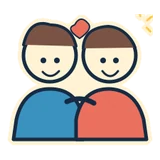
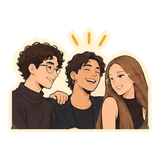
Planche 24 : amis et famille corrigés ; planche 25 : rayon Divers et états vides illustrés (v88)
Claude-Session: https://claude.ai/code/session_01FmbBbPYR3Uqmj4jvUphPos

diff --git a/sw.js b/sw.js
@@ -1,5 +1,5 @@
 // Maison : service worker. L'app s'ouvre sans réseau (lecture) et reçoit des notifications.
-const VERSION = 'maison-v87';
+const VERSION = 'maison-v88';
 const SHELL = ['./', './index.html', './styles.css', './app.js', './themes.js', './fx.js', './people.js', './dechets.js', './recettes.js', './config.js', './manifest.webmanifest', './vendor/supabase-js-2.49.4.js',
   './azami/v41/azami_v41_etirement_anime.svg', './azami/v41/azami_v41_jeu_anime.svg', './azami/v41/azami_v41_toilette_anime.svg', './azami/v41/azami_v41_marche_anime.svg', './azami/v41/azami_v41_miaulement_anime.svg', './azami/v41/azami_v41_repos_anime.svg', './azami/azami_menage_anime.svg', './azami/azami_courses_anime.svg', './azami/azami_argent_anime.svg', './azami/azami_care_anime.svg', './azami/azami_reussite_anime.svg', './azami/reactions/tache_cochee_anime.svg', './azami/reactions/corvee_terminee_anime.svg', './azami/reactions/courses_completees_anime.svg', './azami/reactions/comptes_equilibres_anime.svg', './azami/reactions/mot_envoye_anime.svg', './azami/reactions/objectif_commun_anime.svg', './azami/reactions/surprise_coucou_anime.svg', './azami/reactions/fete_reussites_anime.svg',
   './icons/icon-192.png', './icons/icon-512.png',
@@ -8,7 +8,7 @@ const SHELL = ['./', './index.html', './styles.css', './app.js', './themes.js', 
   './fonts/hanken-grotesk-latin-700-normal.woff2', './fonts/hanken-grotesk-latin-800-normal.woff2',
   './fonts/shippori-mincho-latin-400-normal.woff2', './fonts/shippori-mincho-latin-600-normal.woff2'];
 
-const THEME_ICONS = ['abonnement', 'abricot', 'adaptateur', 'admin', 'adoucissant', 'aeroport', 'agrumes', 'ail', 'air', 'alarme', 'alu', 'amandes', 'amis', 'ampoule_e27', 'ampoule_gu10', 'ananas', 'animalerie', 'anniversaire', 'antipoils', 'antipuces', 'antivol', 'apero', 'appel', 'appel_famille', 'apres_shampooing', 'arbreachat', 'argent', 'art', 'asiatique', 'asperges', 'aspirateur', 'aubergine', 'avion', 'avocat', 'avoine', 'azami_betise', 'azami_carton', 'azami_clavier', 'azami_reclame', 'azami_soleil', 'azami_valise', 'bagels', 'baguette', 'bain', 'balle_grelot', 'banane', 'banque', 'bar', 'basilic', 'batterie_velo', 'beaute', 'bebe', 'beurre', 'beurre_cacahuete', 'bicarbonate', 'biere', 'bijoux', 'billet_avion', 'billet_train', 'biscuits', 'boeuf_hache', 'boites', 'bonbons', 'bougie', 'bouilloire', 'bouillon', 'bouture', 'bretzels', 'bricolage', 'brocante', 'brocoli', 'brosse_dents', 'brossechat', 'brunch', 'budget', 'bulles', 'burger', 'bus', 'cabillaud', 'cable_usbc', 'cables', 'cacahuetes', 'cadeau', 'cadeau_emballer', 'cadre', 'cafe', 'cafe_grains', 'cafe_sortie', 'caissetransport', 'cajou', 'cannelle', 'capsules', 'care_besoin', 'care_envie', 'care_merci', 'care_poids', 'care_tendresse', 'carotte', 'carte', 'carte_id', 'carte_postale', 'carte_sd', 'carte_voeux', 'cash', 'casque', 'casserole', 'cataire', 'celeri', 'cereales', 'cerises', 'champagne', 'champignon', 'charcuterie', 'chargeur', 'chat', 'chauffage', 'chaussettes', 'chaussures', 'cheesecake', 'chez_amis', 'chien', 'chips', 'chocolat', 'chocolat_cuisine', 'chou_chinois', 'chou_fleur', 'ciboulette', 'cinema', 'citron', 'citron_vert', 'clavier', 'cle_usb', 'clementine', 'cles', 'club', 'coiffeur', 'colis', 'colis_envoi', 'colis_retrait', 'colle', 'collierchat', 'commune', 'concert', 'concombre', 'congelateur', 'console', 'cookies', 'coque', 'coriandre', 'coton_tiges', 'cotons', 'coupe_griffes', 'couple', 'courge', 'courgette', 'courrier', 'courses', 'couscous', 'coussin', 'couteaux', 'crackers', 'creme', 'creme_cafe', 'creme_dessert', 'creme_fraiche', 'creme_mains', 'creme_solaire', 'crevettes', 'crochet', 'croissant', 'croquettes', 'cuiseur_riz', 'cuisine', 'cumin', 'curcuma', 'curry', 'danse', 'dashi', 'date', 'dechets', 'deco', 'demaquillant', 'demenagement', 'demi_tarif', 'dentifrice', 'dents', 'deodorant', 'detachant', 'detartrage', 'detartrant', 'detecteur', 'disque_dur', 'docs_voyage', 'donner', 'douche', 'eau', 'eau_gazeuse', 'ebill', 'echalote', 'ecologie', 'ecouteurs', 'ecran', 'edamame', 'electricite', 'enceinte', 'encre', 'engrais', 'epargne', 'epices', 'epinards', 'eponges', 'escabeau', 'escalade', 'essuie_tout', 'etagere', 'etendre', 'etudes', 'facture', 'facture_qr', 'famille', 'farine', 'fecule', 'fenetres', 'fenouil', 'feta', 'fete', 'feuilles_riz', 'fiduciaire', 'figue', 'fil_dentaire', 'film', 'filtre_fontaine', 'fleurs', 'fondue', 'fontaine', 'foot', 'formulaire', 'fraises', 'framboises', 'friandises', 'frigo', 'friperie', 'frites', 'fromage', 'fromage_rape', 'fruits', 'fruits_surgeles', 'fruitsdemer', 'furikake', 'futon', 'galettes_riz', 'gamelle', 'gant_toilettage', 'gants', 'garantie', 'garde_voyage', 'gardechat', 'gateau', 'gel_douche', 'gerance', 'gin', 'gingembre', 'glace', 'glacons', 'globe', 'gnocchis', 'gochujang', 'gorge', 'graines', 'grandmenage', 'granola', 'grenade', 'griffoir', 'griffoir_carton', 'grille_pain', 'gruyere', 'gyozas', 'haricots_rouges', 'haricots_verts', 'hdmi', 'herbeachat', 'herbes', 'hotel', 'hotte', 'housse', 'huile', 'huile_olive', 'huile_sesame', 'huile_tournesol', 'hygiene', 'ibuprofene', 'identite', 'impots', 'imprimer', 'internet_sites', 'intime', 'invites', 'jambon', 'jardin', 'javel', 'jeux', 'jeuxsociete', 'jouetschat', 'juridique', 'jus', 'jus_orange', 'jus_pomme', 'kaki', 'ketchup', 'kimchi', 'kiwi', 'kombucha', 'lac', 'lait', 'lait_avoine', 'lait_coco', 'lait_soja', 'laitier', 'lamal', 'lampe', 'lampe_poche', 'lampe_washi', 'lardons', 'lasagnes', 'laser', 'lavabo', 'lavevaisselle', 'legumes', 'legumes_surgeles', 'legumineuses', 'lentilles', 'lentilles_contact', 'lessive', 'lessive_lancer', 'lessive_liquide', 'levure', 'librairie', 'linge_mouille', 'liquide_vaisselle', 'liste', 'lit', 'litiere', 'livraison', 'livres', 'lunettes', 'macarons', 'machinecafe', 'mais', 'mais_boite', 'malade', 'manette', 'mangue', 'mariage', 'marteau', 'massage', 'matcha', 'mayo_jp', 'mayonnaise', 'medecin', 'melon', 'menage', 'menthe', 'mesures', 'meteo', 'metro', 'meubles', 'mexicain', 'micro_ondes', 'microfibre', 'miel', 'mirin', 'miso', 'mix', 'mixeur', 'mobility', 'mochi', 'montagne', 'mouchoirs', 'mousse_raser', 'moutarde', 'mozzarella', 'muesli', 'multiprise', 'musee', 'musique', 'myrtilles', 'niveau', 'noel', 'noisettes', 'noix', 'nori', 'nouilles', 'nouilles_riz', 'nouvel_an', 'oeufs', 'oignon', 'okonomiyaki', 'ophtalmo', 'orange', 'ordinateur', 'ordonnance', 'oreiller', 'orp', 'pain', 'pain_chocolat', 'pain_complet', 'pain_mie', 'pak_choi', 'pamplemousse', 'panier_chat', 'panier_linge', 'panko', 'pansements', 'papier_cuisson', 'papiertoilette', 'paprika', 'paracetamol', 'parmesan', 'passeport', 'pasteque', 'pastilles_lv', 'patate', 'patate_douce', 'pate_brisee', 'pate_charcuterie', 'pate_crepes', 'pate_curry', 'pate_feuilletee', 'pate_filo', 'pate_gyoza', 'pate_pain', 'pate_pizza', 'pate_sablee', 'pate_tartiner', 'patee', 'pateres', 'pates', 'pates_courtes', 'patisserie', 'peche', 'peinture', 'pelle_litiere', 'perceuse', 'permis', 'persil', 'pesee', 'petitdej', 'petits_pois', 'pharmacie', 'photo', 'physio', 'pile_bouton', 'piles', 'piles_aa', 'piment', 'piquenique', 'piscine', 'pizza', 'pizza_surgelee', 'plaid', 'planche', 'plante_malade', 'plantes', 'plaque_teppan', 'plier', 'plomberie', 'plumeau', 'pneu', 'poele', 'poesie', 'poire', 'poireau', 'pois_chiches', 'pois_surgeles', 'poisson', 'poivre', 'poivron', 'polenta', 'pomme', 'popcorn', 'porc', 'pot', 'poubelle', 'poulet', 'poussiere', 'powerbank', 'premierssoins', 'prise_sang', 'prise_usba', 'prise_usbc', 'psy', 'puree', 'quinoa', 'raclette', 'radis', 'raisin', 'rallonge', 'ramen', 'rangement', 'rappel', 'rasage', 'rasoir', 'raviolis', 'rayon_asie', 'rayon_azami', 'rayon_maison', 'rayon_pharma', 'rayon_super', 'rayon_tech', 'rc_menage', 'rdv', 'recommande', 'recu', 'recyclage', 'reflexion', 'regles', 'remboursement', 'rempoter', 'reparation', 'repas', 'repassage', 'restaurant', 'revision_velo', 'rideaux', 'rincage', 'riz', 'riz_sushi', 'romarin', 'roquette', 'rosti', 'routeur', 'sable_litiere', 'sac', 'sac_voyage', 'sachets', 'sacs_compost', 'sacs_congel', 'sacs_litiere', 'sacs_poubelle', 'sacs_taxes', 'saint_valentin', 'sake', 'salade', 'salaire', 'salledebain', 'salon_the', 'sandwich', 'sante', 'sardines', 'sauce_okonomi', 'sauce_soja', 'sauce_tomate', 'saucisses', 'saumon', 'savon', 'scanner', 'scotch', 'seche_linge', 'securite', 'seitan', 'sel', 'sel_lv', 'serafe', 'sere', 'serpilliere', 'serviettes', 'sesame', 'shampooing', 'shichimi', 'shiitake', 'signature', 'silicone', 'sirop', 'skyr', 'snacks', 'soba', 'sols', 'sommeil', 'soupe', 'souris', 'souris_pc', 'souvenirs', 'spa', 'spiritueux', 'sport', 'spray_multi', 'spray_nasal', 'spray_vitres', 'sriracha', 'steak', 'steak_vege', 'streaming', 'sucre', 'sucre_glace', 'surgeles', 'sushi', 'synthe', 'tapis', 'tapis_litiere', 'tarte', 'tatami', 'taxi', 'telecom', 'telecommande', 'telephone', 'tempeh', 'terreau', 'textile', 'the', 'the_froid', 'the_vert', 'theatre', 'thermometre', 'thon', 'thym', 'tisane', 'tofu', 'toilettes', 'tomate', 'tomates_boite', 'tomates_cerises', 'tortillas', 'tournevis', 'train', 'train_nuit', 'travail', 'tresse', 'trottinette', 'trousse', 'tunnel', 'tupperware', 'tv', 'twint', 'udon', 'urgent', 'vaccin_humain', 'vaccinchat', 'vaisselle', 'valise', 'vapeur', 'vaporisateur', 'vege', 'velo', 'velo_electrique', 'vermicelles', 'vermifuge', 'vernissage', 'verre', 'verre_trempe', 'vetements', 'veto', 'viande', 'viennoiserie', 'vin', 'vin_blanc', 'vin_rouge', 'vinaigre', 'vinaigre_menager', 'vinaigre_riz', 'virement', 'vis', 'visio', 'vitamines', 'voisins', 'volaille', 'vote', 'voyage', 'wakame', 'yaourt', 'yaourt_fruits', 'yoga', 'yuzu'].map(id => `./icons/themes/${id}.webp`);
+const THEME_ICONS = ['abonnement', 'abricot', 'adaptateur', 'admin', 'adoucissant', 'aeroport', 'agrumes', 'ail', 'air', 'alarme', 'alu', 'amandes', 'amis', 'ampoule_e27', 'ampoule_gu10', 'ananas', 'animalerie', 'anniversaire', 'antipoils', 'antipuces', 'antivol', 'apero', 'appel', 'appel_famille', 'apres_shampooing', 'arbreachat', 'argent', 'art', 'asiatique', 'asperges', 'aspirateur', 'aubergine', 'avion', 'avocat', 'avoine', 'azami_betise', 'azami_carton', 'azami_clavier', 'azami_reclame', 'azami_soleil', 'azami_valise', 'bagels', 'baguette', 'bain', 'balle_grelot', 'banane', 'banque', 'bar', 'basilic', 'batterie_velo', 'beaute', 'bebe', 'beurre', 'beurre_cacahuete', 'bicarbonate', 'biere', 'bijoux', 'billet_avion', 'billet_train', 'biscuits', 'boeuf_hache', 'boites', 'bonbons', 'bougie', 'bouilloire', 'bouillon', 'bouture', 'bretzels', 'bricolage', 'brocante', 'brocoli', 'brosse_dents', 'brossechat', 'brunch', 'budget', 'bulles', 'burger', 'bus', 'cabillaud', 'cable_usbc', 'cables', 'cacahuetes', 'cadeau', 'cadeau_emballer', 'cadre', 'cafe', 'cafe_grains', 'cafe_sortie', 'caissetransport', 'cajou', 'cannelle', 'capsules', 'care_besoin', 'care_envie', 'care_merci', 'care_poids', 'care_tendresse', 'carotte', 'carte', 'carte_id', 'carte_postale', 'carte_sd', 'carte_voeux', 'cash', 'casque', 'casserole', 'cataire', 'celeri', 'cereales', 'cerises', 'champagne', 'champignon', 'charcuterie', 'chargeur', 'chat', 'chauffage', 'chaussettes', 'chaussures', 'cheesecake', 'chez_amis', 'chien', 'chips', 'chocolat', 'chocolat_cuisine', 'chou_chinois', 'chou_fleur', 'ciboulette', 'cinema', 'citron', 'citron_vert', 'clavier', 'cle_usb', 'clementine', 'cles', 'club', 'coiffeur', 'colis', 'colis_envoi', 'colis_retrait', 'colle', 'collierchat', 'commune', 'concert', 'concombre', 'congelateur', 'console', 'cookies', 'coque', 'coriandre', 'coton_tiges', 'cotons', 'coupe_griffes', 'couple', 'courge', 'courgette', 'courrier', 'courses', 'couscous', 'coussin', 'couteaux', 'crackers', 'creme', 'creme_cafe', 'creme_dessert', 'creme_fraiche', 'creme_mains', 'creme_solaire', 'crevettes', 'crochet', 'croissant', 'croquettes', 'cuiseur_riz', 'cuisine', 'cumin', 'curcuma', 'curry', 'danse', 'dashi', 'date', 'dechets', 'deco', 'demaquillant', 'demenagement', 'demi_tarif', 'dentifrice', 'dents', 'deodorant', 'detachant', 'detartrage', 'detartrant', 'detecteur', 'disque_dur', 'docs_voyage', 'donner', 'douche', 'eau', 'eau_gazeuse', 'ebill', 'echalote', 'ecologie', 'ecouteurs', 'ecran', 'edamame', 'electricite', 'enceinte', 'encre', 'engrais', 'epargne', 'epices', 'epinards', 'eponges', 'escabeau', 'escalade', 'essuie_tout', 'etagere', 'etendre', 'etudes', 'facture', 'facture_qr', 'famille', 'farine', 'fecule', 'fenetres', 'fenouil', 'feta', 'fete', 'feuilles_riz', 'fiduciaire', 'figue', 'fil_dentaire', 'film', 'filtre_fontaine', 'fleurs', 'fondue', 'fontaine', 'foot', 'formulaire', 'fraises', 'framboises', 'friandises', 'frigo', 'friperie', 'frites', 'fromage', 'fromage_rape', 'fruits', 'fruits_surgeles', 'fruitsdemer', 'furikake', 'futon', 'galettes_riz', 'gamelle', 'gant_toilettage', 'gants', 'garantie', 'garde_voyage', 'gardechat', 'gateau', 'gel_douche', 'gerance', 'gin', 'gingembre', 'glace', 'glacons', 'globe', 'gnocchis', 'gochujang', 'gorge', 'graines', 'grandmenage', 'granola', 'grenade', 'griffoir', 'griffoir_carton', 'grille_pain', 'gruyere', 'gyozas', 'haricots_rouges', 'haricots_verts', 'hdmi', 'herbeachat', 'herbes', 'hotel', 'hotte', 'housse', 'huile', 'huile_olive', 'huile_sesame', 'huile_tournesol', 'hygiene', 'ibuprofene', 'identite', 'impots', 'imprimer', 'internet_sites', 'intime', 'invites', 'jambon', 'jardin', 'javel', 'jeux', 'jeuxsociete', 'jouetschat', 'juridique', 'jus', 'jus_orange', 'jus_pomme', 'kaki', 'ketchup', 'kimchi', 'kiwi', 'kombucha', 'lac', 'lait', 'lait_avoine', 'lait_coco', 'lait_soja', 'laitier', 'lamal', 'lampe', 'lampe_poche', 'lampe_washi', 'lardons', 'lasagnes', 'laser', 'lavabo', 'lavevaisselle', 'legumes', 'legumes_surgeles', 'legumineuses', 'lentilles', 'lentilles_contact', 'lessive', 'lessive_lancer', 'lessive_liquide', 'levure', 'librairie', 'linge_mouille', 'liquide_vaisselle', 'liste', 'lit', 'litiere', 'livraison', 'livres', 'lunettes', 'macarons', 'machinecafe', 'mais', 'mais_boite', 'malade', 'manette', 'mangue', 'mariage', 'marteau', 'massage', 'matcha', 'mayo_jp', 'mayonnaise', 'medecin', 'melon', 'menage', 'menthe', 'mesures', 'meteo', 'metro', 'meubles', 'mexicain', 'micro_ondes', 'microfibre', 'miel', 'mirin', 'miso', 'mix', 'mixeur', 'mobility', 'mochi', 'montagne', 'mouchoirs', 'mousse_raser', 'moutarde', 'mozzarella', 'muesli', 'multiprise', 'musee', 'musique', 'myrtilles', 'niveau', 'noel', 'noisettes', 'noix', 'nori', 'nouilles', 'nouilles_riz', 'nouvel_an', 'oeufs', 'oignon', 'okonomiyaki', 'ophtalmo', 'orange', 'ordinateur', 'ordonnance', 'oreiller', 'orp', 'pain', 'pain_chocolat', 'pain_complet', 'pain_mie', 'pak_choi', 'pamplemousse', 'panier_chat', 'panier_linge', 'panko', 'pansements', 'papier_cuisson', 'papiertoilette', 'paprika', 'paracetamol', 'parmesan', 'passeport', 'pasteque', 'pastilles_lv', 'patate', 'patate_douce', 'pate_brisee', 'pate_charcuterie', 'pate_crepes', 'pate_curry', 'pate_feuilletee', 'pate_filo', 'pate_gyoza', 'pate_pain', 'pate_pizza', 'pate_sablee', 'pate_tartiner', 'patee', 'pateres', 'pates', 'pates_courtes', 'patisserie', 'peche', 'peinture', 'pelle_litiere', 'perceuse', 'permis', 'persil', 'pesee', 'petitdej', 'petits_pois', 'pharmacie', 'photo', 'physio', 'pile_bouton', 'piles', 'piles_aa', 'piment', 'piquenique', 'piscine', 'pizza', 'pizza_surgelee', 'plaid', 'planche', 'plante_malade', 'plantes', 'plaque_teppan', 'plier', 'plomberie', 'plumeau', 'pneu', 'poele', 'poesie', 'poire', 'poireau', 'pois_chiches', 'pois_surgeles', 'poisson', 'poivre', 'poivron', 'polenta', 'pomme', 'popcorn', 'porc', 'pot', 'poubelle', 'poulet', 'poussiere', 'powerbank', 'premierssoins', 'prise_sang', 'prise_usba', 'prise_usbc', 'psy', 'puree', 'quinoa', 'raclette', 'radis', 'raisin', 'rallonge', 'ramen', 'rangement', 'rappel', 'rasage', 'rasoir', 'raviolis', 'rayon_asie', 'rayon_azami', 'rayon_divers', 'rayon_maison', 'rayon_pharma', 'rayon_super', 'rayon_tech', 'rc_menage', 'rdv', 'recommande', 'recu', 'recyclage', 'reflexion', 'regles', 'remboursement', 'rempoter', 'reparation', 'repas', 'repassage', 'restaurant', 'revision_velo', 'rideaux', 'rincage', 'riz', 'riz_sushi', 'romarin', 'roquette', 'rosti', 'routeur', 'sable_litiere', 'sac', 'sac_voyage', 'sachets', 'sacs_compost', 'sacs_congel', 'sacs_litiere', 'sacs_poubelle', 'sacs_taxes', 'saint_valentin', 'sake', 'salade', 'salaire', 'salledebain', 'salon_the', 'sandwich', 'sante', 'sardines', 'sauce_okonomi', 'sauce_soja', 'sauce_tomate', 'saucisses', 'saumon', 'savon', 'scanner', 'scotch', 'seche_linge', 'securite', 'seitan', 'sel', 'sel_lv', 'serafe', 'sere', 'serpilliere', 'serviettes', 'sesame', 'shampooing', 'shichimi', 'shiitake', 'signature', 'silicone', 'sirop', 'skyr', 'snacks', 'soba', 'sols', 'sommeil', 'soupe', 'souris', 'souris_pc', 'souvenirs', 'spa', 'spiritueux', 'sport', 'spray_multi', 'spray_nasal', 'spray_vitres', 'sriracha', 'steak', 'steak_vege', 'streaming', 'sucre', 'sucre_glace', 'surgeles', 'sushi', 'synthe', 'tapis', 'tapis_litiere', 'tarte', 'tatami', 'taxi', 'telecom', 'telecommande', 'telephone', 'tempeh', 'terreau', 'textile', 'the', 'the_froid', 'the_vert', 'theatre', 'thermometre', 'thon', 'thym', 'tisane', 'tofu', 'toilettes', 'tomate', 'tomates_boite', 'tomates_cerises', 'tortillas', 'tournevis', 'train', 'train_nuit', 'travail', 'tresse', 'trottinette', 'trousse', 'tunnel', 'tupperware', 'tv', 'twint', 'udon', 'urgent', 'vaccin_humain', 'vaccinchat', 'vaisselle', 'valise', 'vapeur', 'vaporisateur', 'vege', 'velo', 'velo_electrique', 'vermicelles', 'vermifuge', 'vernissage', 'verre', 'verre_trempe', 'vetements', 'veto', 'viande', 'vide_agenda', 'vide_care', 'vide_courses', 'vide_taches', 'viennoiserie', 'vin', 'vin_blanc', 'vin_rouge', 'vinaigre', 'vinaigre_menager', 'vinaigre_riz', 'virement', 'vis', 'visio', 'vitamines', 'voisins', 'volaille', 'vote', 'voyage', 'wakame', 'yaourt', 'yaourt_fruits', 'yoga', 'yuzu'].map(id => `./icons/themes/${id}.webp`);
 
 const PEOPLE_ICONS = ['./icons/people/yatoni/portrait.webp', './icons/people/yatoni/ordinateur.webp', './icons/people/yatoni/musique.webp', './icons/people/yatoni/nouilles.webp', './icons/people/yatoni/courses.webp', './icons/people/yatoni/cuisine.webp', './icons/people/yatoni/nettoyer.webp', './icons/people/yatoni/lessive.webp', './icons/people/yatoni/aspirateur.webp', './icons/people/yatoni/colis.webp', './icons/people/yatoni/lire.webp', './icons/people/yatoni/jeux.webp', './icons/people/yatoni/tablette.webp', './icons/people/yatoni/muscu.webp', './icons/people/yatoni/velo.webp', './icons/people/yatoni/rando.webp', './icons/people/yatoni/verre.webp', './icons/people/yatoni/bisou.webp', './icons/people/yatoni/bain.webp', './icons/people/yatoni/dormir.webp', './icons/people/mariana/portrait.webp', './icons/people/mariana/ordinateur.webp', './icons/people/mariana/lire.webp', './icons/people/mariana/cafe.webp', './icons/people/mariana/courses.webp', './icons/people/mariana/cuisine.webp', './icons/people/mariana/nettoyer.webp', './icons/people/mariana/linge.webp', './icons/people/mariana/lessive.webp', './icons/people/mariana/plantes.webp', './icons/people/mariana/meditation.webp', './icons/people/mariana/maquillage.webp', './icons/people/mariana/note.webp', './icons/people/mariana/travail.webp', './icons/people/mariana/etirements.webp', './icons/people/mariana/rando.webp', './icons/people/mariana/verre.webp', './icons/people/mariana/bisou.webp', './icons/people/mariana/bain.webp', './icons/people/mariana/dormir.webp'];
 

diff --git a/app.js b/app.js
@@ -985,7 +985,7 @@ function viewMaison() {
       <button data-action="meows" data-on="1" aria-pressed="${MEOWS}">Oui</button>
       <button data-action="meows" data-on="0" aria-pressed="${!MEOWS}">Non</button></div></div>
     ${DEMO ? '' : `<div class="theme-row"><span>Rappels en retard</span>${notifOn() ? '<span class="hint">Notifications activées</span>' : '<button class="btn ghost small" data-action="notif">Activer les notifications</button>'}</div>`}
-    <div class="foot">${DEMO ? '<button class="link" data-action="demo-reset">Remettre la démo à zéro</button>' : '<button class="link" data-action="logout">Se déconnecter</button>'}<span class="version">v87</span></div>`;
+    <div class="foot">${DEMO ? '<button class="link" data-action="demo-reset">Remettre la démo à zéro</button>' : '<button class="link" data-action="logout">Se déconnecter</button>'}<span class="version">v88</span></div>`;
 }
 
 // Tâches datées et prochaine échéance de chaque corvée, à placer dans l'agenda de l'app.
@@ -1081,7 +1081,7 @@ function viewAgenda() {
       <div class="form-actions"><button type="button" class="btn ghost small" data-action="ev-form" data-show="0">Annuler</button><button class="btn" type="submit">Ajouter au calendrier</button></div>
     </form>` : `<button class="btn" data-action="ev-form" data-show="1">+ Ajouter un événement</button>`}
     <button class="link house-toggle" data-action="agenda-house" aria-pressed="${S.agendaHouse !== false}">${S.agendaHouse !== false ? 'Masquer' : 'Afficher'} le ménage et les choses à faire</button>
-    ${blocks || '<p class="empty">Rien de prévu dans les trois prochains mois.</p>'}
+    ${blocks || emptyArt('vide_agenda', 'Rien de prévu dans les trois prochains mois.')}
     <details class="fold" data-fold="ag-settings"><summary>Connexion</summary><p class="hint">Relié à ${esc(A.calendar)} via ${esc(A.apple_id || 'iCloud')}${A.set_by ? `, par ${esc(nameOf(A.set_by))}` : ''}. L'app ne lit que ce calendrier.</p><button class="link" data-action="agenda-forget">Déconnecter le calendrier</button></details>`;
 }
 function editEvent(e) {
@@ -1137,7 +1137,7 @@ function viewTasks() {
     </li>`;
   };
   return `<h2 class="list-head">À faire${open.length ? ` <span class="count">${open.length}</span>` : ''}</h2>
-    ${open.length ? `<ul class="list">${open.map(item).join('')}</ul>` : '<p class="empty">Plus rien à faire. Profitez-en.</p>'}
+    ${open.length ? `<ul class="list">${open.map(item).join('')}</ul>` : emptyArt('vide_taches', 'Plus rien à faire. Profitez-en.')}
     ${fresh.length ? `<h2 class="list-head done-head">Fait aujourd'hui <span class="count">${fresh.length}</span></h2><ul class="list">${fresh.map(item).join('')}</ul>` : ''}
     <form class="form add" data-form="task">
       <label class="sr" for="task-title">Nouvelle chose à faire</label>
@@ -1403,7 +1403,9 @@ const SHOPS = [
   ['tech', 'Électronique', 'Digitec, Interdiscount, Fust'],
   ['autre', 'Divers', 'cadeaux, commandes, le reste'],
 ];
-const SHOP_ICON = { super: 'rayon_super', asie: 'rayon_asie', maison: 'rayon_maison', pharma: 'rayon_pharma', azami: 'rayon_azami', tech: 'rayon_tech', autre: 'cadeau' };
+// Illustration au-dessus d'un état vide.
+const emptyArt = (id, txt) => `<div class="empty-art"><img src="icons/themes/${id}.webp" alt="" width="120" height="120" decoding="async"><p class="empty">${txt}</p></div>`;
+const SHOP_ICON = { super: 'rayon_super', asie: 'rayon_asie', maison: 'rayon_maison', pharma: 'rayon_pharma', azami: 'rayon_azami', tech: 'rayon_tech', autre: 'rayon_divers' };
 const shopIc = (k, cls = 'shop-ic') => SHOP_ICON[k] ? `<img class="${cls}" src="icons/themes/${SHOP_ICON[k]}.webp" alt="" width="40" height="40" decoding="async">` : '';
 const SHOP_OF_THEME = {
   asiatique: 'asie', nouilles: 'asie', sushi: 'asie', curry: 'asie', riz_sushi: 'asie,super', panko: 'asie,super', tofu: 'asie,super', tempeh: 'asie', sauce_soja: 'asie,super', miso: 'asie', mirin: 'asie', pate_gyoza: 'asie', feuilles_riz: 'asie', ramen: 'asie,super', udon: 'asie', soba: 'asie', nouilles_riz: 'asie,super', vermicelles: 'asie',
@@ -1446,7 +1448,7 @@ function viewCourses() {
     <div class="where"><span class="chip-label">Je suis à…</span><div class="chips">${SHOPS.map(([k, l]) => `<button type="button" class="shop-chip" data-action="shop-mode" data-shop="${k}" aria-pressed="${mode === k}">${shopIc(k, 'chip-ic')}${esc(l)}</button>`).join('')}</div></div>
     <div class="shop">${mode
       ? (todo.length ? `<h2 class="list-head shop-head">${shopIc(mode)}${esc(modeLabel)} <span class="hint-inline">${esc(SHOPS.find(x => x[0] === mode)[2])}</span></h2><ul class="list">${todo.map(item).join('')}</ul>` : `<p class="empty">Rien à acheter ici${todoAll.length ? ', le reste de la liste est ailleurs' : ''}.</p>`)
-      : (todo.length ? SHOPS.map(([k, l, ex]) => { const list = todo.filter(s => shopsOf(s).includes(k)); return list.length ? `<h2 class="list-head shop-head">${shopIc(k)}${esc(l)}${ex ? ` <span class="hint-inline">${esc(ex)}</span>` : ''}</h2><ul class="list">${list.map(item).join('')}</ul>` : ''; }).join('') : '<p class="empty">Rien à acheter. Ajoute un article quand il manque quelque chose.</p>')}
+      : (todo.length ? SHOPS.map(([k, l, ex]) => { const list = todo.filter(s => shopsOf(s).includes(k)); return list.length ? `<h2 class="list-head shop-head">${shopIc(k)}${esc(l)}${ex ? ` <span class="hint-inline">${esc(ex)}</span>` : ''}</h2><ul class="list">${list.map(item).join('')}</ul>` : ''; }).join('') : emptyArt('vide_courses', 'Rien à acheter. Ajoute un article quand il manque quelque chose.'))}
     ${cart.length ? `<h2>Dans le panier <span class="count">${cart.length}</span></h2><ul class="list">${cart.map(item).join('')}</ul>` : ''}
     ${mode ? `<div class="form-actions"><button class="btn ghost" data-action="shop-mode" data-shop="${mode}">Je ressors</button><button class="btn" data-action="shop-done" ${cart.length ? '' : 'disabled'}>Courses faites</button></div>`
       : cart.length ? `<div class="form-actions"><button class="btn ghost" data-action="shop-clear">Vider le panier</button></div>` : ''}</div>`;
@@ -1790,7 +1792,7 @@ function viewCare() {
   };
 
   return `<h2 class="first">Ta boîte aux lettres</h2>
-    ${unread.length ? `<div class="letters">${unread.map(letter).join('')}</div>` : '<p class="empty">Aucun mot en attente.</p>'}
+    ${unread.length ? `<div class="letters">${unread.map(letter).join('')}</div>` : emptyArt('vide_care', 'Aucun mot en attente.')}
     ${read.length ? `<details class="fold" data-fold="read" ${read.some(c => c.id === S.openLetter) ? 'open' : ''}><summary>Mots déjà lus (${read.length})</summary><div class="letters">${read.map(letter).join('')}</div></details>` : ''}
 
     <h2>Écrire à ${esc(nameOf(o))}</h2>

diff --git a/styles.css b/styles.css
@@ -836,3 +836,7 @@ h2 .muted { color: var(--muted); font-weight: 800; text-transform: none; letter-
   .rstep-ings .rs-ic:nth-child(2) { animation-delay: .05s; } .rstep-ings .rs-ic:nth-child(3) { animation-delay: .1s; } .rstep-ings .rs-ic:nth-child(4) { animation-delay: .15s; } .rstep-ings .rs-ic:nth-child(5) { animation-delay: .2s; }
 }
 @keyframes rpop { from { transform: scale(.6); opacity: 0; } to { transform: none; opacity: 1; } }
+
+.empty-art { text-align: center; padding: var(--s3) 0 var(--s2); }
+.empty-art img { width: 120px; height: 120px; display: block; margin: 0 auto -6px; }
+.empty-art .empty { padding-top: var(--s2); }
